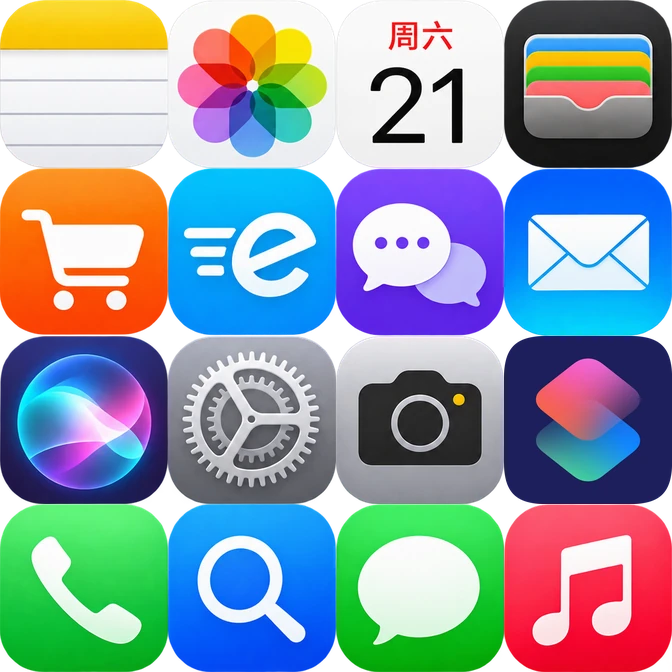
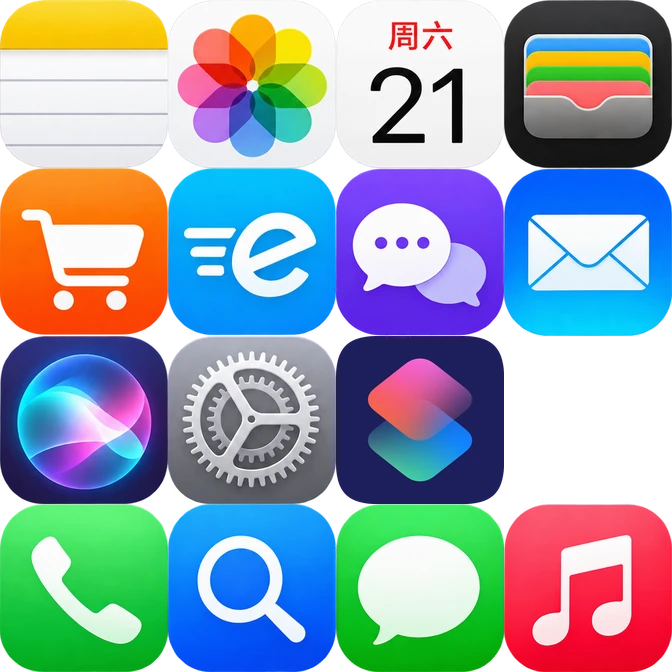
查手机：TA 的设置、消息，去掉相机（v0.8.572）
Claude-Session: https://claude.ai/code/session_01W7dSspLcssV21Xs5aU6zTf

Changed region(s): [[0.5, 0.5, 1.0, 0.75]]

diff --git a/phone/apps/peek/gen.js b/phone/apps/peek/gen.js
@@ -1,7 +1,7 @@
 // 查手机里的内容：每个联系人一份，存在 kv 的 peek:联系人 id（{ apps: { 应用: { at, rows } } }）。
 // 只在你点「生成」时找 AI，勾了几个应用也只找一次；AI 一行一条地回，写到哪个应用算哪个，没写到的留着旧的。
-import { h } from '../../core/util.js';
-import { kvGet, kvSet, friends } from '../../core/store.js';
+import { h, shortTime } from '../../core/util.js';
+import { state, commit, kvGet, kvSet, friends, contact, getMsgs, chatForContact, win } from '../../core/store.js';
 import { sheet, toast, waiting } from '../../core/ui.js';
 import { generate, resolveConn } from '../../core/api.js';
 import { compose, myName, myPersona } from '../../core/promptstore.js';
@@ -9,6 +9,10 @@ import { storyText, worldText } from '../../core/context.js';
 import * as time from '../../core/time.js';
 import { log } from '../../core/log.js';
 import { nameOf, personaOf } from '../chat/engine.js';
+import { previewOf } from '../chat/msgtypes.js';
+import { chatMsgs } from '../../core/memory.js';
+
+export const S = () => state.apps.peek ||= { every: 0, count: 6, fill: false, fillMax: 3 };
 
 /** 能生成的应用：名字 → 给 AI 看的一行怎么写 */
 export const FORMS = {
@@ -20,9 +24,25 @@ export const FORMS = {
   饿了吗: '店名｜点了什么｜花了多少（只写数字）｜时间｜给商家的备注',
   日历: '日期｜几点｜什么事｜地点',
   钱包: '余额｜数字（只写这一行）\n时间｜和谁 / 干什么｜金额（花掉的前面写 -，收到的写 +）',
+  消息: `和谁聊（人名；群聊写「群：群名」）｜时间｜这句谁说的｜内容
+备注｜{{user}}｜{{char}} 给 {{user}} 存的备注名（只写这一行）
+草稿｜对谁｜打了没发出去的话（有才写，最多两行）
+（写 3～5 个对话，每个 6～12 句，同一个对话的挨着写、按先后；{{char}} 自己说的那句「这句谁说的」写「自己」；不要写和 {{user}} 的聊天，那个手机里已经有了；可以有 {{user}} 不在的群）`,
+  屏幕使用时间: '应用名｜今天用了多少分钟（只写数字）\n（写 6～8 个，从多到少）',
 };
 
-export const load = async c => (await kvGet('peek:' + c.id).catch(() => null)) || { apps: {} };
+const pairKey = (a, b) => 'peek:pair:' + [a, b].sort().join('|');
+const said = (m, who, me) => ({ who, me, t: shortTime(m.at), text: m.type === 'text' ? m.text : previewOf(m) });
+/** c 的手机里有什么：AI 写的各应用（apps）、和别的联系人的聊天（pairs：两个人共用一份，谁的手机里看都一样）、你手机里真有的聊天（real：和你的私聊、TA 在的群） */
+export async function load(c) {
+  const d = (await kvGet('peek:' + c.id).catch(() => null)) || { apps: {} };
+  d.pairs = (await Promise.all(friends().filter(x => x.id !== c.id).map(async x => [x, await kvGet(pairKey(c.id, x.id)).catch(() => null)]))).filter(x => x[1])
+    .map(([x, L]) => ({ title: nameOf(x), msgs: L.map(m => ({ ...m, me: m.from === c.id, who: nameOf(contact(m.from)) })) }));
+  const mine = chatForContact(c.id, false), groups = state.chats.filter(ch => ch.type === 'group' && (ch.members || []).includes(c.id));
+  d.real = (await Promise.all([mine, ...groups].filter(Boolean).map(async ch => ({ title: ch.type === 'group' ? ch.name : '', group: ch.type === 'group', you: ch.type !== 'group',
+    msgs: (await getMsgs(ch.id)).filter(m => m.from !== 'sys' && !m.recalled).slice(-60).map(m => m.from === 'me' ? said(m, myName(), false) : said(m, nameOf(contact(m.who) || c), !m.who || m.who === c.id)) })))).filter(x => x.msgs.length);
+  return d;
+}
 
 // 正在生成的那一次（放在模块里：退出再进来还是「取消」，不会又发一个）
 let job = null;
@@ -45,34 +65,52 @@ export async function make(c, names, done) {
   try {
     const got = await waiting(`正在写${nameOf(c)}的手机…`, async stop => {
       const story = storyText() || '（暂无）', now = time.isStory() ? time.story() : null;
-      const raw = await generate({ conn: resolveConn('text', 'chat'), system: '', app: '查手机', stop,
+      const raw = await generate({ conn: resolveConn('text', 'chat'), system: '', app: '查手机', stop, resume: S().fill ? S().fillMax || 3 : 0,
         prompt: compose('peek', { char: c.name || nameOf(c), user: myName(), persona: personaOf(c) || '（没有写）', user_persona: myPersona() || '（没有写）',
           world: await worldText(story, [c], 'peek').catch(() => ''), story, people: [myName(), ...friends().filter(x => x.id !== c.id).map(x => x.name || nameOf(x))].map(n => '- ' + n).join('\n'),
           time: now ? `${now.date.toLocaleDateString('zh-CN')} ${now.hh}:${String(now.mm).padStart(2, '0')}` : new Date().toLocaleString('zh-CN'),
-          apps: names.map(n => `【${n}】\n${FORMS[n].replace('{{char}}', c.name || nameOf(c))}`).join('\n') }) });
+          count: S().count || 6, apps: names.map(n => `【${n}】\n${FORMS[n].replace(/\{\{char\}\}/g, c.name || nameOf(c)).replace(/\{\{user\}\}/g, myName())}`).join('\n') }) });
       const got = parse(raw);
       if (!Object.values(got).some(r => r.length)) throw new Error('AI 回的不是手机内容：' + String(raw).slice(0, 60));
       return got;
     }, ac);
     if (!got) return;
-    const d = await load(c), ok = names.filter(n => got[n] && got[n].length);
+    const d = (await kvGet('peek:' + c.id).catch(() => null)) || { apps: {} }, ok = names.filter(n => got[n] && got[n].length);
+    // 和手机里别的联系人的私聊另存一份两个人共用的，剩下的（群、不认识的人、备注、草稿）留在 TA 自己这份里
+    if (got.消息) {
+      const who = n => friends().find(x => x.id !== c.id && (x.name === n || nameOf(x) === n)), by = new Map();
+      got.消息 = got.消息.filter(r => { const x = who(r[0]); if (x) (by.get(x) || by.set(x, []).get(x)).push({ from: /自己/.test(r[2]) || r[2] === c.name ? c.id : x.id, t: r[1], text: r[3] }); return !x; });
+      await Promise.all([...by].map(([x, L]) => kvSet(pairKey(c.id, x.id), L)));
+    }
     ok.forEach(n => { d.apps[n] = { at: Date.now(), rows: got[n] }; });
     await kvSet('peek:' + c.id, d);
     const miss = names.filter(n => !ok.includes(n));
     if (miss.length) log('warn', '查手机', `这几个应用 AI 没写：${miss.join('、')}`);
     toast(miss.length ? `写好 ${ok.length} 个，${miss.join('、')}没写出来` : `写好了，${ok.length} 个应用`);
-    done({ ...d, who: c.id });
+    done({ ...await load(c), who: c.id });
   } catch (e) { log('error', '查手机', '生成失败：' + e.message, e); toast('没写成：' + e.message); }
   finally { job = null; }
 }
 
 /** 勾选要生成哪些应用（默认全勾） */
 export function pickApps(c, d, start) {
-  const on = new Set(Object.keys(FORMS));
+  const on = new Set(S().last || Object.keys(FORMS));
   const rows = Object.keys(FORMS).map(n => { const b = h('button.pk-tick.is-on', { onclick: () => { on.has(n) ? on.delete(n) : on.add(n); mark(); } }, h('i'), h('span', n), h('small', d.apps[n] ? '有了，会换成新的' : '')); b._n = n; return b; });
   const all = h('button.pk-sheet__all', { onclick: () => { const full = on.size === rows.length; rows.forEach(b => full ? on.delete(b._n) : on.add(b._n)); mark(); } });
-  const go = h('button.as-btn.as-btn--primary', { onclick: () => { s.close(); start([...on]); } });
+  const go = h('button.as-btn.as-btn--primary', { onclick: () => { s.close(); S().last = [...on]; commit('apps'); start([...on]); } });
   const mark = () => { rows.forEach(b => b.classList.toggle('is-on', on.has(b._n))); all.textContent = on.size === rows.length ? '全不选' : '全选'; go.disabled = !on.size; go.textContent = on.size ? `生成 ${on.size} 个（用一次 API）` : '生成'; };
   const s = sheet({ title: `${nameOf(c)}的手机`, content: [all, h('div.pk-ticks', rows), go] });
   mark();
+}
+
+/** 每隔几楼自动生成（TA 手机的设置里选了才会）：给上次看的那个人，写上次勾的那几个应用 */
+export async function auto() {
+  const P = S(), n = chatMsgs().length;
+  if (!P.every || job) return;
+  if (P.at == null || n < P.at) { P.at = n; commit('apps'); return; }
+  if (n - P.at < P.every) return;
+  const c = contact(await kvGet('peek:who:' + win.key).catch(() => ''));
+  if (!c) return;
+  P.at = n; commit('apps');
+  await make(c, P.last || Object.keys(FORMS), () => {});
 }

diff --git a/phone/apps/peek/peek.js b/phone/apps/peek/peek.js
@@ -8,6 +8,7 @@ import * as time from '../../core/time.js';
 import { nameOf } from '../chat/engine.js';
 import { FORMS, load, make, pickApps, running } from './gen.js';
 import { VIEWS } from './apps.js';
+import { setup } from './setup.js';
 
 const BASE = 'assets/peek/', W = 852, H = 1846;
 const pc = (v, all) => v / all * 100 + '%';
@@ -16,7 +17,7 @@ const THINGS = [['水杯', 'water', 505, 300, 240, 345], ['照片', 'photo', 171
 const PHONE = ['手机', 'phone', 10, 392, 456, 516];
 // 把斜放的手机屏摆正：屏幕四个角 → 一个 1×1 方块的四个角（事先算好的透视矩阵，三行）
 const FACE = [[1.9219, -0.9494, 0.0676], [0.3933, 1.4361, -0.2326], [0.0261, 0.2559, 1]];
-const APPS = ['备忘录', '相册', '日历', '钱包', '购物车', '饿了吗', '论坛', '短信', 'AI', '设置', '相机', '资源库'];
+const APPS = ['备忘录', '相册', '日历', '钱包', '购物车', '饿了吗', '论坛', '短信', 'AI', '设置', '资源库'];
 const DOCK = ['电话', '搜索', '消息', '音乐'];
 
 const night = () => { const hh = time.isStory() ? time.story().hh : new Date().getHours(); return hh < 6 || hh >= 19; };
@@ -71,9 +72,12 @@ export function open() {
   function pop() { const el = layers.pop(); el._a.reverse(); el._a.finished.then(() => el.remove()); }
   function openApp(name) {
     if (!c) { choose(); return; }
-    if (!VIEWS[name]) { toast(`「${name}」还没做`); return; }
-    show(name, () => D.apps[name] ? VIEWS[name](D.apps[name].rows, (t, kids, cls) => show(t, () => kids, cls, name))
-      : h('div.pk-none', '还没有内容', h('button', { onclick: () => running() ? toast('正在生成，等它写完') : start([name]) }, '生成（用一次 API）')), 'is-' + (Object.keys(FORMS).indexOf(name) + 1));
+    if (name !== '设置' && !VIEWS[name]) { toast(`「${name}」还没做`); return; }
+    const sub = n => (t, kids, cls) => show(t, typeof kids === 'function' ? kids : () => kids, cls, n);
+    const none = n => h('div.pk-none', '还没有内容', h('button', { onclick: () => running() ? toast('正在生成，等它写完') : start([n]) }, '生成（用一次 API）'));
+    // 一个应用的内容：有 AI 写的就排出来；消息里你手机上真有的聊天不用生成也能看
+    const body = n => () => D.apps[n] || (n === '消息' && D.real.length) ? VIEWS[n]((D.apps[n] || {}).rows || [], sub(n), D) : none(n);
+    show(name, name === '设置' ? () => setup(t => show(t, body(t), '', '设置')) : body(name), 'is-' + (Object.keys(FORMS).indexOf(name) + 1));
   }
 
   // 拿起手机：手机从桌上飞起来、摆正，屏幕正好铺满；到了再亮起锁屏。
@@ -87,6 +91,7 @@ export function open() {
       fly = phone.animate(Array.from({ length: 13 }, (_, i) => at(i / 12)), { duration: 700, easing: 'cubic-bezier(.3, .7, .2, 1)', fill: 'both' });
     } else fly?.reverse();
     stage.classList.toggle('is-near', on); p.el.classList.toggle('is-in', on);
+    if (on && c) load(c).then(x => { D = x; });   // 你手机里的聊天可能有新的
     if (!on) stage.classList.remove('is-open');
   }
   const leave = () => { near(false); lock.style.transform = ''; };

diff --git a/phone/apps/peek/apps.js b/phone/apps/peek/apps.js
@@ -12,7 +12,19 @@ function tabs(names, show) {
 }
 const groupBy = (R, k) => { const m = new Map(); R.forEach(r => (m.get(r[k]) || m.set(r[k], []).get(r[k])).push(r)); return [...m]; };
 
+// 消息：你手机里真有的（和你的私聊、TA 在的群）排前面，后面是 AI 写的 TA 和别人的聊天；都从 TA 那边看，TA 说的在右边
+function chats(R, D) {
+  const note = (R.find(r => r[0] === '备注') || [])[2], drafts = R.filter(r => r[0] === '草稿'), by = groupBy(R.filter(r => r[0] !== '备注' && r[0] !== '草稿'), 0);
+  return [...D.real.map(x => ({ ...x, title: x.you ? note || x.msgs.find(m => !m.me)?.who || '' : x.title })), ...D.pairs,
+    ...by.map(([who, L]) => ({ title: who.replace(/^群[：:]/, ''), group: /^群[：:]/.test(who), msgs: L.map(r => ({ me: /自己/.test(r[2]), who: r[2], t: r[1], text: r[3] })) }))]
+    .map(x => ({ ...x, draft: (drafts.find(r => r[1] === x.title) || [])[2] }));
+}
+
 export const VIEWS = {
+  消息: (R, push, D) => list(chats(R, D).map(x => { const last = x.msgs[x.msgs.length - 1]; return h('button.pk-row', { onclick: () => push(x.title, x.msgs.map((m, i) => [x.group && !m.me && (!i || x.msgs[i - 1].who !== m.who) && h('small.pk-by', m.who), h('div.pk-bub' + (m.me ? '.is-me' : ''), m.text)]), 'pk-sms.pk-im') },
+    face(x.title), h('div', h('b', x.title, h('time', last.t)), h('span', x.draft ? [h('em', '[草稿] '), x.draft] : (x.group && !last.me ? last.who + '：' : '') + last.text))); })),
+  屏幕使用时间: R => { const max = Math.max(...R.map(r => +r[1] || 0), 1), all = R.reduce((a, r) => a + (+r[1] || 0), 0), hm = m => (m >= 60 ? Math.floor(m / 60) + ' 小时 ' : '') + (m % 60) + ' 分钟';
+    return [h('div.pk-day', '今天'), h('div.pk-card', h('b.pk-big', hm(all))), list(R.map(([n, m]) => h('div.pk-row', h('div', h('b', n), h('i.pk-bar', { style: { width: (+m || 0) / max * 100 + '%' } })), h('time', hm(+m || 0)))))]; },
   备忘录: (R, push) => list(R.map(([t, d, body = '']) => h('button.pk-row.is-col', { onclick: () => push(t, [h('time', d), ...body.split('//').map(x => h('p', x.trim()))], 'pk-note') },
     h('b', t), h('span', h('time', d), body.replace(/\s*\/\/\s*/g, ' '))))),
   搜索: R => {

diff --git a/phone/apps/peek/setup.js b/phone/apps/peek/setup.js
@@ -1,0 +1,27 @@
+// TA 手机里的「设置」：查手机怎么生成（整部手机一份，不分人），和 TA 的屏幕使用时间。
+import { h } from '../../core/util.js';
+import { commit } from '../../core/store.js';
+import { pickWheels, icon } from '../../core/ui.js';
+import { chatMsgs } from '../../core/memory.js';
+import { S } from './gen.js';
+
+const EVERY = [0, 3, 5, 8, 10, 15, 20, 30, 50], every = n => n ? `每 ${n} 楼` : '手动';
+// 一行：左边名字，右边现在的值，点了用滚轮改；只换那个值
+function pick(title, list, get, set, show = String) {
+  const v = h('span', show(get()));
+  return h('button.pk-row', { onclick: async () => { const r = await pickWheels(title, [[list.map(x => [x, show(x)]), get()]]); if (!r) return; set(r[0]); commit('apps'); v.textContent = show(get()); } }, h('b', title), v, icon('chevron', 16, 2.2));
+}
+
+export function setup(open) {
+  const P = S();
+  const times = pick('最多续几次', [1, 2, 3, 4, 5, 6, 8, 10], () => P.fillMax || 3, n => { P.fillMax = n; }, n => n + ' 次'); times.hidden = !P.fill;
+  const sw = h('i.pk-sw' + (P.fill ? '.is-on' : ''));
+  return [
+    h('div.pk-list',
+      pick('自动生成', EVERY, () => P.every || 0, n => { P.every = n; P.at = chatMsgs().length; }, every),
+      pick('每个应用几条', [3, 4, 5, 6, 8, 10, 12, 15, 20], () => P.count || 6, n => { P.count = n; }, n => n + ' 条'),
+      h('button.pk-row', { role: 'switch', onclick: () => { P.fill = !P.fill; commit('apps'); sw.classList.toggle('is-on', P.fill); times.hidden = !P.fill; } }, h('b', '断了自动续写'), sw),
+      times),
+    h('div.pk-list.pk-gap', h('button.pk-row', { onclick: () => open('屏幕使用时间') }, h('b', '屏幕使用时间'), icon('chevron', 16, 2.2))),
+  ];
+}

diff --git a/phone/apps/peek/peek.css b/phone/apps/peek/peek.css
@@ -114,3 +114,15 @@ button.pk-row { cursor: pointer; } button.pk-row:active { background: #e5e5ea; }
 .pk-bub.is-me { align-self: flex-end; background: #34c759; color: #fff; }
 .pk-none { margin-top: 30%; display: flex; flex-direction: column; align-items: center; gap: 16px; color: rgba(60, 60, 67, .6); }
 .pk-none button { border: 0; border-radius: 12px; padding: 12px 22px; background: var(--tint); color: #fff; font: 600 16px/1 inherit; font-family: inherit; cursor: pointer; }
+.pk-row:not(.is-col) > span { flex: none; display: block; font-size: 17px; }
+.pk-row > svg:last-child { color: rgba(60, 60, 67, .3); margin-left: -6px; }
+.pk-row[hidden] { display: none; }
+.pk-gap { margin-top: 22px; }
+.pk-sw { flex: none; width: 51px; height: 31px; border-radius: 16px; background: rgba(120, 120, 128, .16); position: relative; transition: background .25s; }
+.pk-sw::after { content: ''; position: absolute; top: 2px; left: 2px; width: 27px; height: 27px; border-radius: 50%; background: #fff; box-shadow: 0 3px 8px rgba(0, 0, 0, .15), 0 1px 1px rgba(0, 0, 0, .06); transition: translate .25s; }
+.pk-sw.is-on { background: #34c759; } .pk-sw.is-on::after { translate: 20px; }
+.pk-im .pk-bub.is-me { background: #007aff; }
+.pk-by { margin: 6px 0 0 13px; font-size: 12px; color: rgba(60, 60, 67, .6); }
+.pk-row span em { font-style: normal; color: #ff3b30; }
+.pk-big { font-size: 28px; }
+.pk-bar { display: block; height: 6px; border-radius: 3px; background: var(--tint); min-width: 4px; }

diff --git a/phone/core/sync.js b/phone/core/sync.js
@@ -89,6 +89,7 @@ async function readMessage(id) {
     M.fromStory(id, [...text.matchAll(/<astermem>([\s\S]*?)<\/astermem>/gi)].map(x => x[1]).join('\n')).then(refresh, e => log('warn', '岁岁砂', '记不下这一楼：' + e.message));   // 记完再更新送进正文的那段（成长）
     M.autoSort().catch(e => log('warn', '岁岁砂', '这次没自动整理成：' + e.message));   // 选了「每隔几轮」才会真的整理
   }
+  if (state.apps.peek && state.apps.peek.every) import('../apps/peek/gen.js').then(g => g.auto());   // 查手机：选了「每隔几楼」才自动生成
   // 日记：同上，换了 swipe 就换成新的那几篇
   if (state.diary.books.length) (await import('./diary.js')).fromStory(id, [...text.matchAll(/<asterdiary\b([^>]*)>([\s\S]*?)<\/asterdiary>/gi)]
     .map(x => [((/from\s*=\s*["“']?([^"”'>]+)/.exec(x[1]) || [])[1] || '').trim(), x[2].trim()]).filter(x => x[0] && x[1]))

diff --git a/phone/core/store.js b/phone/core/store.js
@@ -78,6 +78,8 @@ export function defaults() {
       interlude: { conn: { text: 'follow' }, splash: true, voice: 'tap', crit: 'book', fill: false, fillMax: 3 },
       // 论坛：用哪套样子（自带的 weibo / douban / twitter，或者 looks 里自己的编号）、自己的样子文件、外语怎么显示（both 原文下面跟中文 / tap 点了才显示）、一次刷几条、点开帖子自动出评论
       forum: { conn: { text: 'follow', image: 'follow' }, skin: 'weibo', looks: [], tr: 'both', count: 6 },
+      // 查手机：每隔几楼自动生成（0 = 只手动）、算到第几楼了、每个应用几条、断了自动续写、上次勾了哪些应用
+      peek: { every: 0, count: 6, fill: false, fillMax: 3 },
     },
     prompts: {},                          // 通用提示词的修改（全局 + 暗号）
     timeTagName: 'astertime',

diff --git a/phone/apps/settings/settings.js b/phone/apps/settings/settings.js
@@ -14,7 +14,7 @@ import { importClockFont, removeClockFont, userFonts, hanFonts, fontKey, fontNam
 import { themeName } from '../../core/skin.js';
 import { LANGS, langName, relang } from '../../core/translate.js';
 
-export const VERSION = '0.8.571';
+export const VERSION = '0.8.572';
 export const FABS = [['forest', '森林小芽'], ['candy', '糖果'], ['ocean', '海洋'], ['sunflower', '向日葵'], ['neon', '霓虹'], ['iphone', 'iPhone'],
   ['ancient', '古风'], ['xianxia', '仙侠'], ['magic', '魔法'], ['steampunk', '蒸汽朋克'], ['retro', '复古游戏机'], ['autumn', '秋日']];
 const MODE_LABEL = { day: '日间', night: '夜间', auto: '跟随系统' };

diff --git a/docs/pages-forum.md b/docs/pages-forum.md
@@ -454,6 +454,7 @@ const raw = await generate({ conn: resolveConn('text', 'forum'), system: '', app
 - Tauri 那边：`sync.js` 现有的注入两边都能用，就不用另外处理；如果发现哪边读不到，按 CLAUDE.md 说清楚是哪边。
 
 ## 更新记录
+- v0.8.572 查手机：TA 的「设置」（手动 / 每隔几楼自动生成、每个应用几条、断了自动续写、屏幕使用时间）；「消息」（和你的私聊、TA 在的群直接能看，AI 再写 TA 和别人的聊天、给你的备注、草稿；两个联系人之间的聊天共用一份）；去掉相机
 - v0.8.571 查手机：桌上右上角选看谁的手机（任何联系人）；手机里点「生成」勾应用（全选 / 全不选）只找一次 AI，没内容的应用里也能单独生成；先做好备忘录、搜索、短信、电话、购物车、饿了吗、日历、钱包；加了资源库图标
 - v0.8.570 查手机：桌上的水杯、照片、笔、耳机点了各自动一动（不再冒白光和说明文字）；点手机是把它拿起来摆正；TA 的手机换上新的图标和默认壁纸
 - v0.8.569 新应用「查手机」的壳子：TA 桌上的一角（白天 / 夜里两张画，跟着故事时间换），点耳机、水杯、本子、照片、笔有小反应；点手机凑近，上滑解锁，进 TA 的满屏桌面。里面各个应用还没做

diff --git a/CLAUDE.md b/CLAUDE.md
@@ -75,6 +75,8 @@
 ## 作者定下的概念（别混）
 - **「和谁一起听」和「在聊天里发起一起听」是两回事**：在音乐 App（播放页）里选人一起听，不涉及聊天、不发卡片；只有在聊天界面「+」→ 一起听，才在聊天里发那张卡片。
 
+- **一个人在每个 App 里只有一个名字，哪里都一样**：论坛网名、音乐网名都只存一份（`core/store.js` 的 `nickIn` / `setNick`），查手机里先生成了，以后你的论坛 / 音乐里也是这个名字，反过来也一样；用不用翻译、说什么语言也跟着同一份设置（`core/translate.js` 的 `langFor`），不另起一套。
+
 ## 以后做到时要记得（作者交代过，别忘）
 - **「其他」线的「断线了怎么办」已经加回来了（v0.8.353，岁岁砂用上向量时）**：只有失败自动重试，没有「改用副 API」（作者定的：换了向量模型，存过的记忆就对不上了；断了岁岁砂自己退回按词找）。位置在 `apps/settings/board.js` 的 `connMenu` / `retrySheet`。
 - **做聊天 App 时**：正文 → 手机的暗号还要补「改签名、换头像、一起听歌」（作者说等弄聊天 App 时再仔细设计，现在先不做）。暗号都在 `apps/chat/engine.js` 的 `fromStory`。
